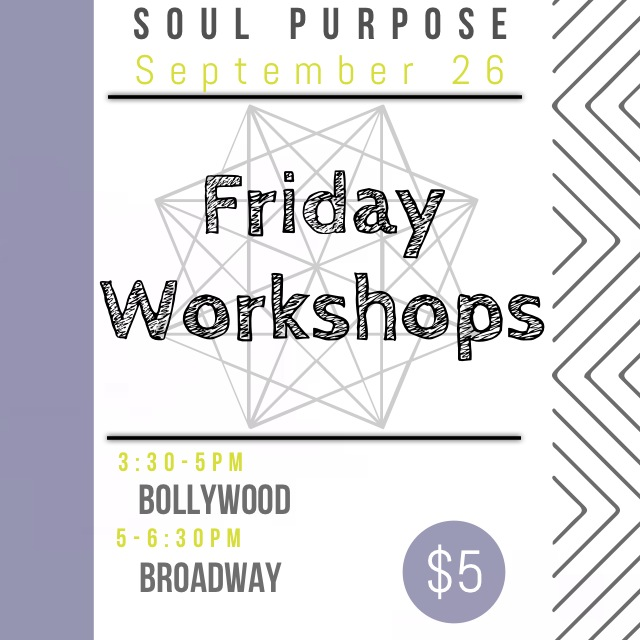
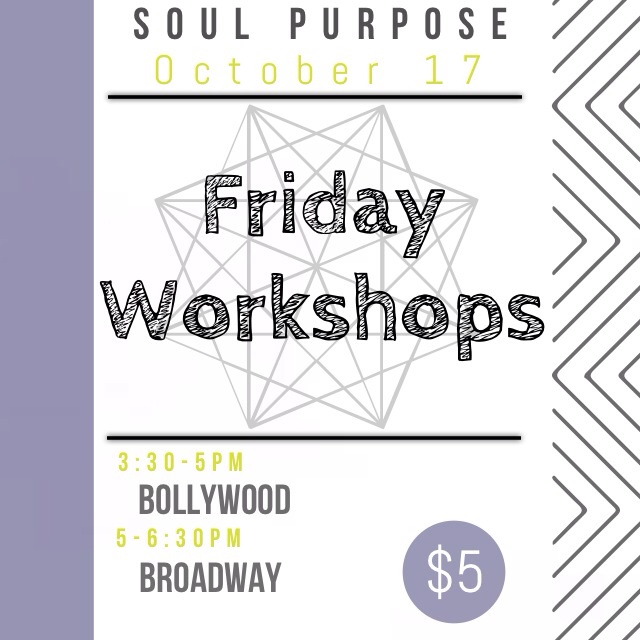
Updated dates

Changed region(s): [[0.1875, 0.0625, 0.7188, 0.1562], [0.7188, 0.0625, 0.8125, 0.1562]]

diff --git a/index.html b/index.html
@@ -345,8 +345,9 @@
                                     </center>-->
                                     
                                     <h2>Workshops</h2>
-                                    <center><a href="images/workshop2.jpeg" rel="shadowbox"><img src="images/workshop2.jpeg" width=45%/></a>
+                                    <center>
                                     <a href="images/msworkshop.jpeg" rel="shadowbox"><img src="images/msworkshop.jpeg" width=45%/></a>
+                                    <a href="images/workshop2.jpeg" rel="shadowbox"><img src="images/workshop2.jpeg" width=45%/></a>
                                     </center>
                                 
                                     <h2>Practice Schedule</h2>
@@ -614,7 +615,7 @@
 <td><span class="date">7</span><div class="day"></div></td>
 <td><span class="date">8</span><div class="day"></div></td>
 <td><span class="date">9</span><div class="day"></div></td>
-<td><span class="date">10</span><div class="day"></div></td>
+<td><span class="date">10</span><div class="day"><a href="images/msworkshop.jpeg" rel="shadowbox"><b>Middle School Workshop</b></a><br>3:30PM-5:30PM</div></td>
 <td class="weekend"><span class="date">11</span><div class="day"></div></td>
 </tr><tr>
 <td class="weekend"><span class="date">12</span><div class="day"></div></td>
@@ -622,7 +623,7 @@
 <td><span class="date">14</span><div class="day"></div></td>
 <td><span class="date">15</span><div class="day"></div></td>
 <td><span class="date">16</span><div class="day"></div></td>
-<td><span class="date">17</span><div class="day"></div></td>
+<td><span class="date">17</span><div class="day"><a href="images/workshop2.jpeg" rel="shadowbox"><b>Workshop</b></a><br>3:30PM-6:30PM</div></td>
 <td class="weekend"><span class="date">18</span><div class="day"></div></td>
 </tr><tr>
 <td class="weekend"><span class="date">19</span><div class="day"></div></td>
@@ -687,7 +688,7 @@
 <td><span class="date">11</span><div class="day"><b><i>Veterans Day Parade</i></b></div></td>
 <td><span class="date">12</span><div class="day"></div></td>
 <td><span class="date">13</span><div class="day"></div></td>
-<td><span class="date">14</span><div class="day"></div></td>
+<td><span class="date">14</span><div class="day"><a href="images/msworkshop.jpeg" rel="shadowbox"><b>Middle School Workshop</b></a><br>3:30PM-5:30PM</div></td>
 <td class="weekend"><span class="date">15</span><div class="day"></div></td>
 </tr><tr>
 <td class="weekend"><span class="date">16</span><div class="day"></div></td>
@@ -752,7 +753,7 @@
 <td><span class="date">9</span><div class="day"></div></td>
 <td><span class="date">10</span><div class="day"></div></td>
 <td><span class="date">11</span><div class="day"></div></td>
-<td><span class="date">12</span><div class="day"></div></td>
+<td><span class="date">12</span><div class="day"><a href="images/msworkshop.jpeg" rel="shadowbox"><b>Middle School Workshop</b></a><br>3:30PM-5:30PM</div></td>
 <td class="weekend"><span class="date">13</span><div class="day"></div></td>
 </tr><tr>
 <td class="weekend"><span class="date">14</span><div class="day"></div></td>
@@ -1112,7 +1113,7 @@
                                     <h3>Workshops (Replacing Summer PEDA Workshops)</h3>
                                     <p><i>We will no longer be attending the PEDA workshops during the summer. Workshops will be $5 each (if you paid for the PEDA workshops, you're all set)</i><br>
                                     August 22 at 3:30pm-6:30pm<br>
-                                    September 26 at 3:30pm-6:30pm<br>
+                                    October 17 at 3:30pm-6:30pm<br>
                                     November 21 at 3:30pm-6:30pm</p>
                                     
                                     <h3>Monthly Workshops at KAMS (Open to all junior high)</h3>
